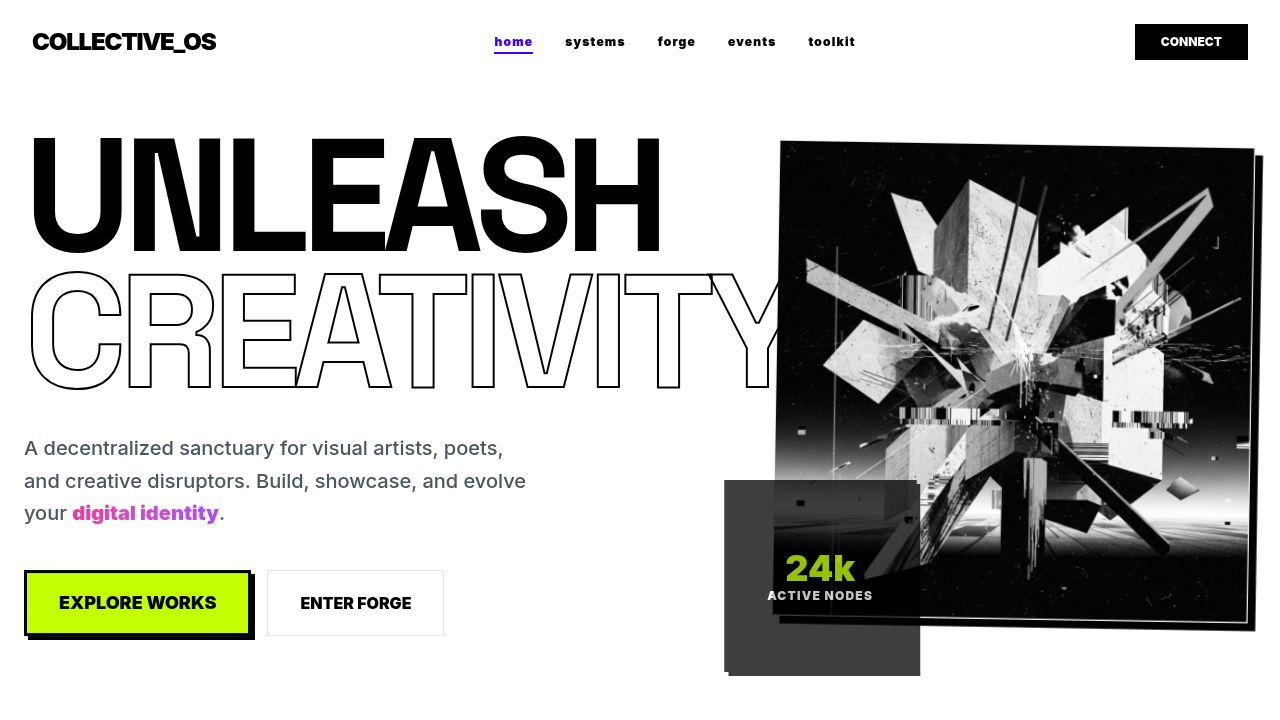
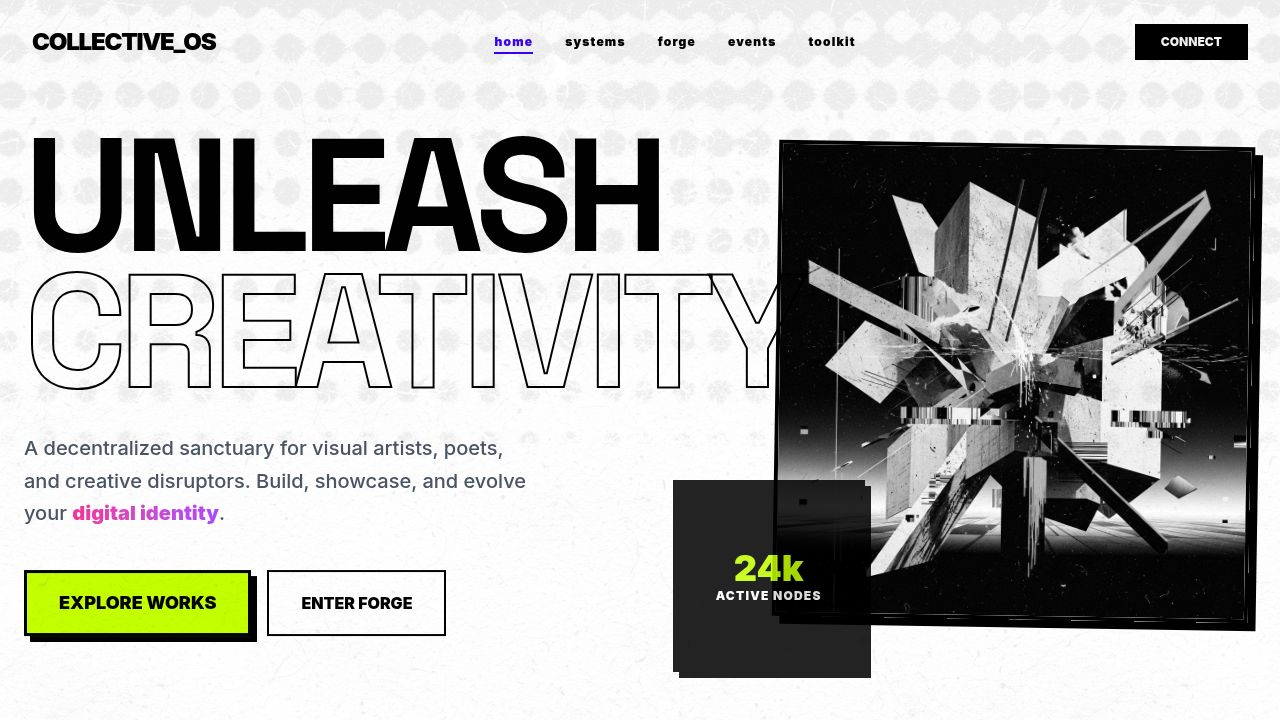
Add a neural asset generator that analyzes and creates design outputs
Implement the Forge with multi-modal input, variable analysis, and output presets for asset generation.

Replit-Commit-Author: Agent
Replit-Commit-Session-Id: dddbd0cc-123f-4c3a-b02b-d2a3a9e95962
Replit-Commit-Checkpoint-Type: full_checkpoint
Replit-Commit-Event-Id: 880580ad-ad6c-48a4-b101-63f9a9935786
Replit-Commit-Screenshot-Url: https://storage.googleapis.com/screenshot-production-us-central1/1fbde5e4-162b-45a7-b527-cc40af12be28/dddbd0cc-123f-4c3a-b02b-d2a3a9e95962/lK4tVNu
Replit-Helium-Checkpoint-Created: true

diff --git a/client/src/App.tsx b/client/src/App.tsx
@@ -1,10 +1,13 @@
-import React, { useState, useEffect } from 'react';
+import React, { useState, useEffect, useRef } from 'react';
 import { motion, AnimatePresence } from 'framer-motion';
 import { 
   Zap, ArrowRight, ShieldCheck, Layers, Cpu, 
   Terminal, Database, Activity, Code2, Box,
   ChevronRight, Monitor, Share2, Download, RefreshCcw, Loader2, Globe, Clock, Video,
-  AlertTriangle, Fingerprint
+  AlertTriangle, Fingerprint, Upload, FileText, Image as ImageIcon, Sparkles,
+  Layers as LayersIcon, Layout, Presentation, Briefcase, Smile, Palette, Eye, 
+  Maximize, Target, Compass, Box as BoxIcon, Frame, MousePointer2, Columns, 
+  CreditCard, Grid
 } from 'lucide-react';
 import { Nav, Footer } from '@/components/Layout';
 import Home from './pages/Home';
@@ -23,134 +26,272 @@ const GLITCH_VARIANTS = {
   }
 };
 
-// --- Page Components with Crunchy Interactions ---
+// --- Neural Forge Logic & Components ---
+
+const ANALYZE_VARIABLES = [
+  "essence", "theme", "message", "signal", "aesthetic", "design", "idea", "genre", "method", 
+  "material", "subject", "technique", "shapes", "symbols", "archetypes", "adjacent designs", 
+  "focus point", "descriptive words", "use of depth", "layout", "texture", "thickness", 
+  "quality (x5)", "use of lighting", "perspective", "scope", "field of view", "color palette", 
+  "intent", "thoughts provoked", "looks like", "reminds me of", "feels like...", 
+  "makes me want to", "makes me wish", "makes me assume", "makes me care about", 
+  "makes me decide to...", "use cases", "industry application"
+];
+
+const OUTPUT_PRESETS = [
+  { id: 'brand_pack', label: 'Brand Pack', icon: <Briefcase size={14}/> },
+  { id: 'hero', label: 'Hero/Post', icon: <ImageIcon size={14}/> },
+  { id: 'web_layout', label: 'Web Layout', icon: <Layout size={14}/> },
+  { id: 'app_layout', label: 'App Layout', icon: <Presentation size={14}/> },
+  { id: 'symbols', label: 'Symbols/Icons', icon: <Sparkles size={14}/> },
+  { id: 'greeting_card', label: 'Greeting Card', icon: <CreditCard size={14}/> },
+  { id: 'caricature', label: 'Satire/Caricature', icon: <Smile size={14}/> },
+  { id: 'mood_board', label: 'Mood Board', icon: <Grid size={14}/> },
+  { id: 'poc', label: 'Design PoC', icon: <Eye size={14}/> },
+  { id: 'packaging', label: 'Packaging', icon: <BoxIcon size={14}/> },
+  { id: 'product', label: 'Product Design', icon: <Target size={14}/> },
+  { id: 'asset_trans', label: 'Isolated Asset (Alpha)', icon: <LayersIcon size={14}/> },
+  { id: 'ux_components', label: 'UX Components', icon: <MousePointer2 size={14}/> }
+];
+
+const COMPONENT_VARIANTS = [
+  { id: 'buttons', label: 'Buttons', icon: <MousePointer2 size={12}/> },
+  { id: 'cursors', label: 'Cursors', icon: <MousePointer2 size={12}/> },
+  { id: 'navbar', label: 'Nav Bar', icon: <Columns size={12}/> },
+  { id: 'sliders', label: 'Sliders', icon: <Activity size={12}/> },
+  { id: 'frames', label: 'Frames', icon: <Frame size={12}/> },
+  { id: 'sections', label: 'Sections', icon: <Columns size={12}/> },
+  { id: 'cards', label: 'Cards', icon: <BoxIcon size={12}/> }
+];
 
 const ForgePage = () => {
   const [prompt, setPrompt] = useState("");
   const [loading, setLoading] = useState(false);
+  const [analyzing, setAnalyzing] = useState(false);
   const [img, setImg] = useState<string | null>(null);
   const [glitch, setGlitch] = useState(false);
+  const [file, setFile] = useState<File | null>(null);
+  const [selectedPreset, setSelectedPreset] = useState('brand_pack');
+  const [analysisData, setAnalysisData] = useState<Record<string, string>>({});
+  const fileInputRef = useRef<HTMLInputElement>(null);
+
+  const handleFileChange = (e: React.ChangeEvent<HTMLInputElement>) => {
+    if (e.target.files?.[0]) {
+      setFile(e.target.files[0]);
+      simulateAnalysis();
+    }
+  };
+
+  const simulateAnalysis = () => {
+    setAnalyzing(true);
+    setTimeout(() => {
+      const mockAnalysis: Record<string, string> = {};
+      ANALYZE_VARIABLES.forEach(v => {
+        mockAnalysis[v] = "Detected_Vector_0x" + Math.random().toString(16).slice(2, 6).toUpperCase();
+      });
+      setAnalysisData(mockAnalysis);
+      setAnalyzing(false);
+    }, 1500);
+  };
 
   const handleForge = () => {
-    if (!prompt) return;
+    if (!prompt && !file) return;
     setLoading(true);
     setGlitch(true);
     setTimeout(() => {
       setImg("/hero-art.png");
       setLoading(false);
       setGlitch(false);
-    }, 1800);
+    }, 2500);
   };
 
   return (
     <div className="pt-32 pb-20 px-6 min-h-screen bg-white relative overflow-hidden">
       <div className="pixel-grid absolute inset-0 pointer-events-none" />
       
-      <div className="max-w-7xl mx-auto grid grid-cols-1 lg:grid-cols-12 gap-12 relative z-10">
-        <motion.div 
-          className="lg:col-span-4 space-y-8"
-          initial={{ x: -20, opacity: 0 }}
-          animate={{ x: 0, opacity: 1 }}
-        >
-          <div className="brutalist-border bg-black text-white p-8 group overflow-hidden">
-            <h1 className="kinetic-text text-6xl mb-4 group-hover:skew-x-6 transition-transform">The Forge</h1>
-            <div className="flex items-center gap-2">
-              <div className="w-2 h-2 bg-[#c4ff00] animate-pulse" />
-              <p className="text-[10px] font-black uppercase tracking-widest text-[#c4ff00]">Neural Asset Generator // v4.0.1</p>
-            </div>
+      <div className="max-w-[1600px] mx-auto grid grid-cols-1 lg:grid-cols-12 gap-8 relative z-10">
+        {/* Left Sidebar: Controls */}
+        <div className="lg:col-span-3 space-y-6">
+          <div className="brutalist-border bg-black text-white p-6">
+            <h1 className="kinetic-text text-4xl mb-2">The Forge</h1>
+            <p className="text-[10px] font-black uppercase text-[#c4ff00]">Neural Analysis Engine // v4.2</p>
           </div>
 
-          <div className="bg-white p-8 brutalist-border space-y-6">
-            <div className="space-y-2">
-              <div className="flex justify-between items-center">
-                <label className="text-[10px] font-black uppercase flex items-center gap-1">
-                  <Fingerprint size={12} /> Latent Input
-                </label>
-                <span className="text-[8px] font-mono opacity-30">HEX_AUTH_0x44</span>
+          <div className="bg-white p-6 brutalist-border space-y-6">
+            <div className="space-y-4">
+              <label className="text-[10px] font-black uppercase flex items-center gap-2">
+                <Upload size={12} /> Reference Input
+              </label>
+              <input 
+                type="file" 
+                ref={fileInputRef} 
+                onChange={handleFileChange} 
+                className="hidden" 
+                accept="image/*,video/*,.pdf,.doc,.docx"
+              />
+              <div 
+                onClick={() => fileInputRef.current?.click()}
+                className="border-2 border-black border-dashed p-8 text-center cursor-pointer hover:bg-gray-50 transition-all group relative overflow-hidden"
+              >
+                {file ? (
+                  <div className="space-y-2">
+                    <FileText className="mx-auto w-8 h-8 text-black" />
+                    <p className="text-[10px] font-black uppercase truncate">{file.name}</p>
+                  </div>
+                ) : (
+                  <div className="space-y-2">
+                    <ImageIcon className="mx-auto w-8 h-8 text-black/20 group-hover:text-black transition-colors" />
+                    <p className="text-[10px] font-black uppercase text-black/40">Drop IMG/VID/DOC</p>
+                  </div>
+                )}
+                {analyzing && <motion.div className="absolute inset-0 bg-[#c4ff00]/20 animate-pulse" />}
               </div>
+            </div>
+
+            <div className="space-y-2">
+              <label className="text-[10px] font-black uppercase flex items-center gap-2">
+                <Terminal size={12} /> Creative Modifier
+              </label>
               <textarea 
                 value={prompt}
                 onChange={(e) => setPrompt(e.target.value)}
-                placeholder="PROMPT_00: Shattered geometry, digital rust..."
-                className="w-full h-32 bg-gray-50 border-2 border-black p-4 outline-none font-bold uppercase resize-none text-sm focus:bg-white transition-colors"
+                placeholder="User Intent / Creative Expectation..."
+                className="w-full h-24 bg-gray-50 border-2 border-black p-4 outline-none font-bold uppercase resize-none text-xs focus:bg-white transition-colors"
               />
             </div>
+
+            <div className="space-y-2">
+              <label className="text-[10px] font-black uppercase flex items-center gap-2">
+                <LayersIcon size={12} /> Output Preset
+              </label>
+              <div className="grid grid-cols-2 gap-2 max-h-[200px] overflow-y-auto custom-scrollbar pr-2">
+                {OUTPUT_PRESETS.map(preset => (
+                  <button
+                    key={preset.id}
+                    onClick={() => setSelectedPreset(preset.id)}
+                    className={`text-[9px] font-black uppercase p-2 border-2 border-black flex items-center gap-2 transition-all ${selectedPreset === preset.id ? 'bg-[#c4ff00] translate-x-1 translate-y-1 shadow-none' : 'bg-white hover:bg-gray-50 shadow-[2px_2px_0px_0px_rgba(0,0,0,1)]'}`}
+                  >
+                    {preset.icon} {preset.label}
+                  </button>
+                ))}
+              </div>
+            </div>
+
+            {selectedPreset === 'ux_components' && (
+              <div className="space-y-2 animate-in fade-in slide-in-from-top-2 duration-300">
+                <label className="text-[10px] font-black uppercase flex items-center gap-2">
+                  <Grid size={12} /> Component Variant
+                </label>
+                <div className="grid grid-cols-3 gap-1">
+                  {COMPONENT_VARIANTS.map(v => (
+                    <button key={v.id} className="text-[7px] font-black uppercase p-1 border border-black hover:bg-[#c4ff00] transition-colors">
+                      {v.label}
+                    </button>
+                  ))}
+                </div>
+              </div>
+            )}
             
             <button 
               onClick={handleForge}
-              disabled={loading}
-              className="crunchy-btn w-full bg-black text-white py-4 font-black uppercase flex items-center justify-center gap-4 hover:bg-[#c4ff00] hover:text-black transition-all active:scale-95 group"
+              disabled={loading || analyzing}
+              className="crunchy-btn w-full bg-black text-white py-4 font-black uppercase flex items-center justify-center gap-4 hover:bg-[#c4ff00] hover:text-black transition-all active:scale-95 disabled:opacity-50"
             >
-              {loading ? <RefreshCcw className="animate-spin" /> : <Zap className="group-hover:fill-current" />}
-              {loading ? "Synthesizing..." : "Initiate Forge"}
+              {loading ? <RefreshCcw className="animate-spin" /> : <Zap />}
+              {loading ? "Forging..." : "Initiate Synthesis"}
             </button>
           </div>
+        </div>
 
-          <div className="brutalist-border bg-[#ff6b6b] p-6 text-black">
-            <h3 className="font-black uppercase text-xs mb-4 flex items-center gap-2">
-              <AlertTriangle size={14} /> System Stability
+        {/* Center: Live Analysis HUD */}
+        <div className="lg:col-span-3">
+          <div className="brutalist-border bg-gray-900 text-[#c4ff00] p-6 h-full overflow-y-auto max-h-[800px] font-mono custom-scrollbar">
+            <h3 className="text-[10px] font-black uppercase mb-6 border-b border-[#c4ff00]/20 pb-2 flex items-center gap-2">
+              <Activity size={14} /> Neural Breakdown
             </h3>
-            <div className="space-y-4">
-              {['ENTROPY', 'LATENCY', 'COHERENCE'].map(label => (
-                <div key={label} className="space-y-1">
-                  <div className="flex justify-between text-[8px] font-black uppercase">
-                    <span>{label}</span>
-                    <span>{Math.floor(Math.random() * 100)}%</span>
+            {Object.keys(analysisData).length > 0 ? (
+              <div className="space-y-4">
+                {ANALYZE_VARIABLES.map(v => (
+                  <div key={v} className="space-y-1">
+                    <div className="flex justify-between text-[9px] uppercase">
+                      <span className="opacity-50">{v}</span>
+                      <span className="text-white">{analysisData[v]}</span>
+                    </div>
+                    <div className="h-[1px] bg-[#c4ff00]/10 w-full" />
                   </div>
-                  <div className="w-full h-1 bg-black/20"><div className="w-3/4 h-full bg-black" /></div>
-                </div>
-              ))}
-            </div>
+                ))}
+              </div>
+            ) : (
+              <div className="flex flex-col items-center justify-center h-64 text-[#c4ff00]/20">
+                <Fingerprint size={48} className="mb-4 animate-pulse" />
+                <p className="text-[10px] text-center">Awaiting Data Ingestion...</p>
+              </div>
+            )}
           </div>
-        </motion.div>
+        </div>
 
-        <div className="lg:col-span-8">
+        {/* Right: Output View */}
+        <div className="lg:col-span-6 space-y-6">
           <motion.div 
-            className={`relative aspect-video brutalist-border bg-black overflow-hidden group ${glitch ? 'animate-pulse' : ''}`}
+            className={`relative aspect-[16/10] brutalist-border bg-black overflow-hidden group`}
             variants={GLITCH_VARIANTS}
             animate={glitch ? "animate" : "initial"}
           >
             <div className="scanline" />
+            <div className="absolute top-4 right-4 z-20 flex gap-2">
+               <div className="bg-black/80 backdrop-blur px-3 py-1 text-[8px] font-black text-[#c4ff00] brutalist-border !border-white/20 !shadow-none uppercase">
+                 Mode: {selectedPreset}
+               </div>
+            </div>
+
             {!img && !loading && (
-              <div className="absolute inset-0 flex flex-col items-center justify-center text-white/10">
-                <Monitor className="w-24 h-24 mb-4 stroke-[0.5]" />
-                <span className="font-black uppercase tracking-[1em] text-xs">Waiting for Signal</span>
+              <div className="absolute inset-0 flex flex-col items-center justify-center text-white/5">
+                <BoxIcon className="w-32 h-32 mb-4 stroke-[0.2]" />
+                <span className="font-black uppercase tracking-[1.5em] text-[10px]">Latent Void</span>
               </div>
             )}
             
             {loading && (
               <div className="absolute inset-0 flex items-center justify-center bg-white">
-                 <div className="text-center">
-                    <div className="w-16 h-16 border-8 border-black border-t-[#c4ff00] animate-spin mb-4" />
-                    <p className="kinetic-text text-2xl">MAPPING_VOID</p>
+                 <div className="text-center relative">
+                    <div className="w-24 h-24 border-[12px] border-black border-t-[#c4ff00] animate-spin mb-6" />
+                    <p className="kinetic-text text-3xl">SYNTHESIZING</p>
+                    <div className="mt-4 flex gap-1 justify-center">
+                       {[1,2,3,4,5].map(i => (
+                         <motion.div 
+                           key={i}
+                           animate={{ height: [4, 16, 4] }}
+                           transition={{ repeat: Infinity, duration: 0.5, delay: i * 0.1 }}
+                           className="w-1 bg-black"
+                         />
+                       ))}
+                    </div>
                  </div>
               </div>
             )}
 
             {img && !loading && (
-              <motion.div initial={{ opacity: 0, scale: 1.1 }} animate={{ opacity: 1, scale: 1 }} className="h-full w-full relative">
-                <img src={img} className="w-full h-full object-cover grayscale contrast-125" alt="Generated art" />
-                <div className="absolute inset-0 bg-[url('/crunchy-texture.png')] opacity-20 pointer-events-none mix-blend-overlay" />
-                <div className="absolute top-6 left-6 bg-[#c4ff00] text-black px-4 py-2 font-black uppercase text-xs brutalist-border">
-                  ASSET_ID: {Math.random().toString(16).slice(2, 8).toUpperCase()}
-                </div>
-                <div className="absolute bottom-6 right-6 flex gap-2">
-                  <button className="p-4 bg-white brutalist-border !shadow-none hover:bg-[#22d3ee] transition-all"><Download size={20}/></button>
-                  <button className="p-4 bg-white brutalist-border !shadow-none hover:bg-[#ff6b6b] transition-all"><Share2 size={20}/></button>
+              <motion.div initial={{ opacity: 0 }} animate={{ opacity: 1 }} className="h-full w-full relative">
+                <img src={img} className="w-full h-full object-cover" alt="Generated art" />
+                {selectedPreset === 'asset_trans' && (
+                  <div className="absolute inset-0 bg-[url('https://www.transparenttextures.com/patterns/carbon-fibre.png')] opacity-10 pointer-events-none" />
+                )}
+                <div className="absolute inset-0 bg-[url('/crunchy-texture.png')] opacity-10 pointer-events-none mix-blend-overlay" />
+                
+                <div className="absolute bottom-6 right-6 flex gap-3">
+                  <button className="p-4 bg-white brutalist-border !shadow-none hover:bg-[#c4ff00] transition-all group"><Download size={20} className="group-hover:scale-110"/></button>
+                  <button className="p-4 bg-white brutalist-border !shadow-none hover:bg-[#ff6b6b] transition-all group"><Share2 size={20} className="group-hover:rotate-12"/></button>
                 </div>
               </motion.div>
             )}
           </motion.div>
           
-          <div className="mt-8 grid grid-cols-4 gap-4">
-             {[1,2,3,4].map(i => (
-               <motion.div 
-                 key={i} 
-                 whileHover={{ scale: 1.05, rotate: i % 2 === 0 ? 2 : -2 }}
-                 className="aspect-square bg-gray-50 border-2 border-black border-dashed flex items-center justify-center hover:bg-white transition-all cursor-crosshair opacity-30 hover:opacity-100"
-               >
-                 <RefreshCcw className="text-black w-6 h-6" />
-               </motion.div>
+          <div className="grid grid-cols-4 gap-4">
+             {OUTPUT_PRESETS.slice(0, 4).map((p, i) => (
+               <div key={i} className="aspect-video bg-gray-50 border-2 border-black border-dashed flex flex-col items-center justify-center opacity-30 hover:opacity-100 transition-all cursor-crosshair p-2">
+                 {p.icon}
+                 <span className="text-[8px] font-black uppercase mt-1">{p.label}</span>
+               </div>
              ))}
           </div>
         </div>
@@ -192,26 +333,6 @@ const SystemsPage = () => (
           </div>
         ))}
       </div>
-
-      <motion.div 
-        className="mt-32 p-1 border-4 border-[#22d3ee] bg-[#22d3ee] relative overflow-hidden"
-        whileHover={{ skewX: -1 }}
-      >
-        <div className="bg-[#0f172a] p-12 flex flex-col md:flex-row items-center gap-12">
-           <div className="w-full md:w-1/3">
-              <img src="/architecture-elevated.png" className="w-full grayscale contrast-150 brightness-75" alt="Logic diagram" />
-           </div>
-           <div className="w-full md:w-2/3">
-              <h2 className="text-5xl font-black uppercase mb-6 leading-tight">Autonomous<br/>Control</h2>
-              <p className="text-lg font-bold leading-relaxed mb-8 opacity-70">
-                Tiered approach to model routing. 40% latency reduction. 100% brand safety across all collective outputs.
-              </p>
-              <div className="flex flex-wrap gap-4">
-                <button className="bg-[#22d3ee] text-black px-8 py-3 font-black uppercase text-xs brutalist-border !shadow-none hover:translate-y-1">Initialize_OS</button>
-              </div>
-           </div>
-        </div>
-      </motion.div>
     </div>
   </div>
 );
@@ -250,12 +371,6 @@ export default function App() {
             {page === 'events' && (
                <div className="pt-40 text-center min-h-screen">
                 <h1 className="kinetic-text text-8xl uppercase glitch-text">SYNC_PENDING</h1>
-                <button onClick={() => setPage('home')} className="mt-8 font-black uppercase text-xs brutalist-border px-6 py-2">Return</button>
-              </div>
-            )}
-            {['submit'].includes(page) && (
-              <div className="pt-40 text-center min-h-screen">
-                <h1 className="kinetic-text text-8xl uppercase glitch-text">UPLOAD_LOCKED</h1>
                 <button onClick={() => setPage('home')} className="mt-8 font-black uppercase text-xs brutalist-border px-6 py-2">Return</button>
               </div>
             )}
